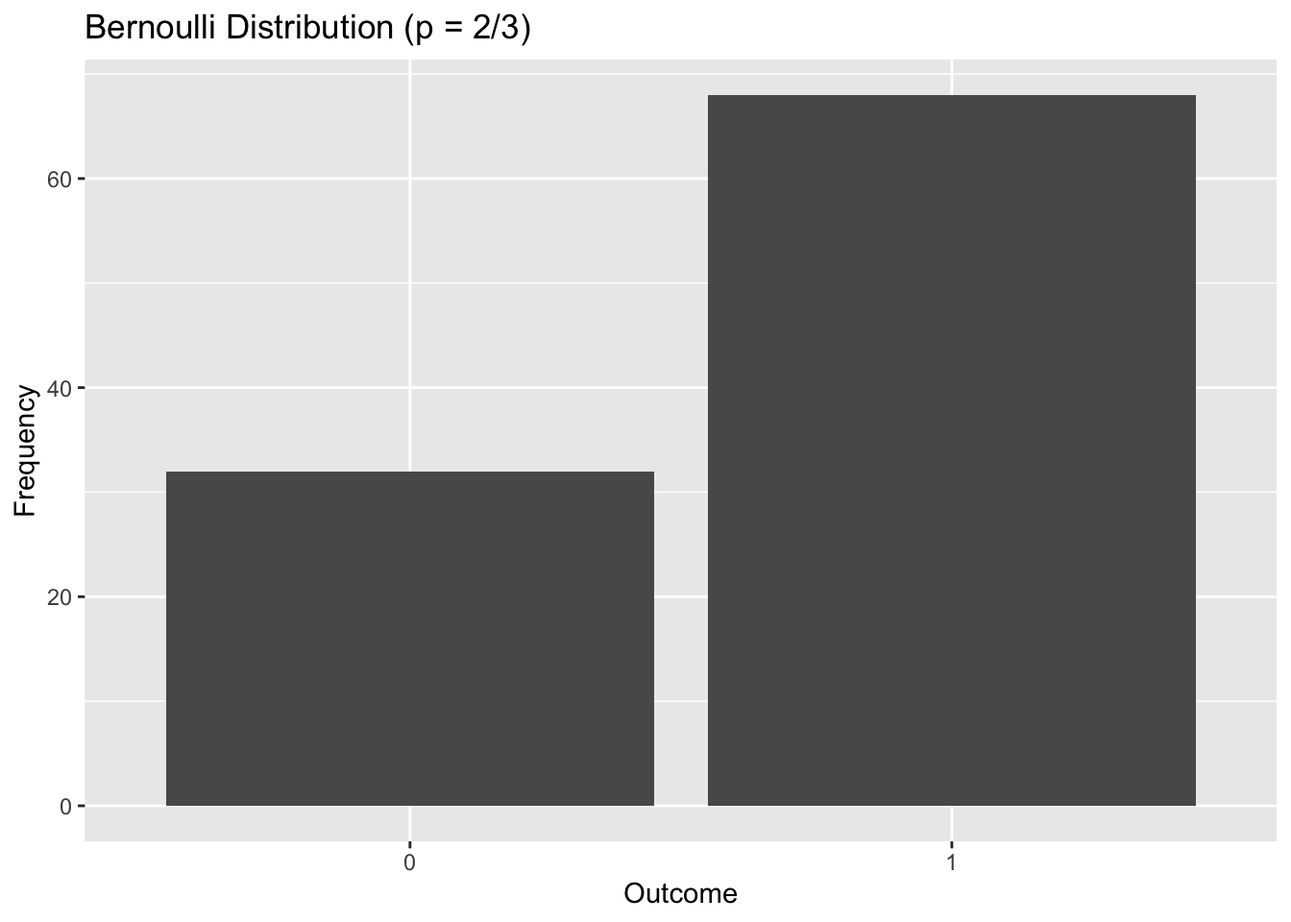
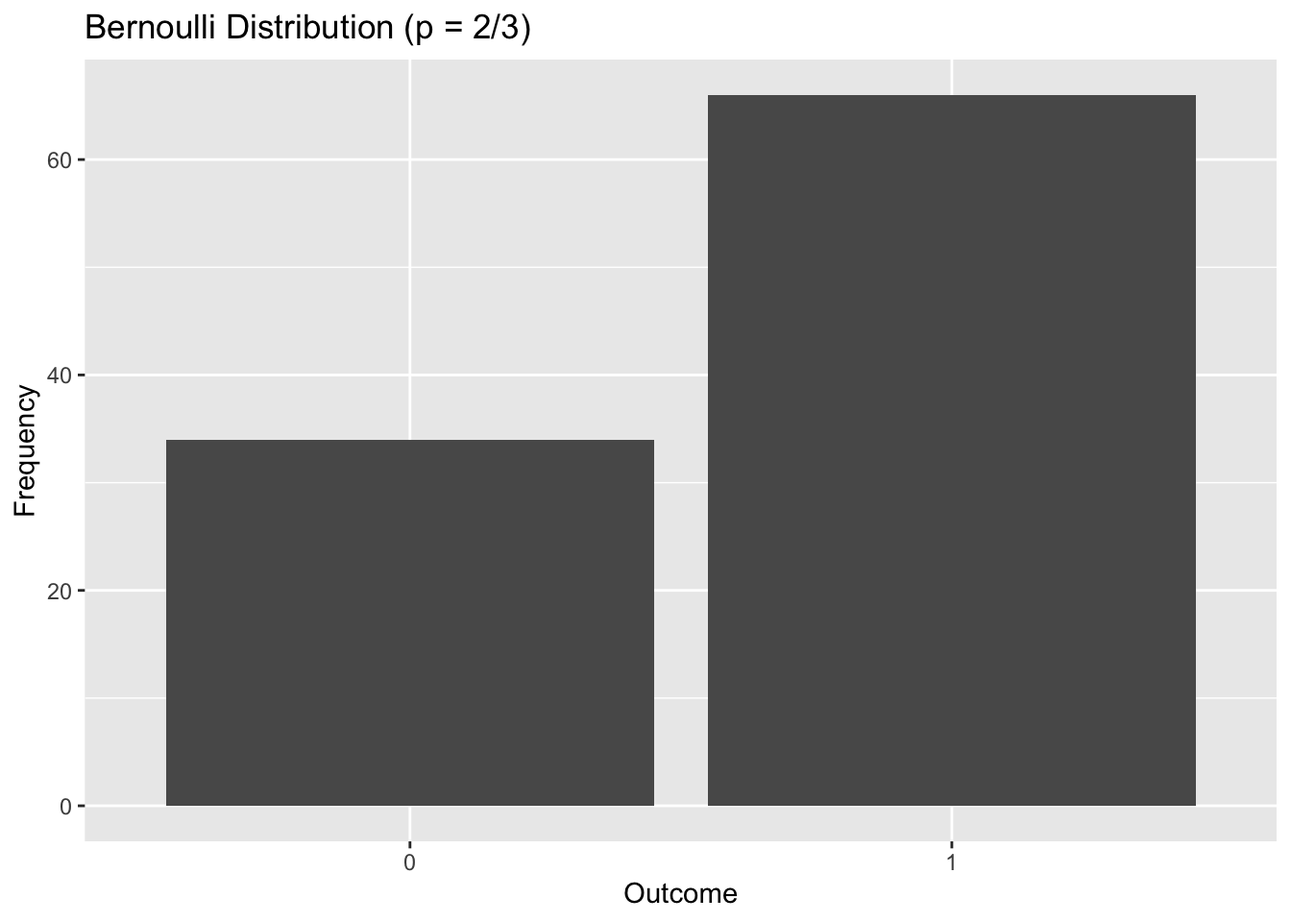
Fixing some errors

diff --git a/Week 5 Exercises/Exercise_05.html b/Week 5 Exercises/Exercise_05.html
@@ -121,51 +121,62 @@ pre > code.sourceCode > span > a:first-child::before { text-decoration: underlin
 <h2 class="anchored" data-anchor-id="section">5.2.1</h2>
 <p>Use <code>dbinom()</code> to verify the results in Equation 5.1.</p>
 <div class="cell">
-<div class="sourceCode cell-code" id="cb4"><pre class="sourceCode r code-with-copy"><code class="sourceCode r"><span id="cb4-1"><a href="#cb4-1" aria-hidden="true" tabindex="-1"></a><span class="fu">dbinom</span>(<span class="dv">1</span>, <span class="at">size =</span> <span class="dv">1</span>, <span class="at">prob =</span> (<span class="dv">2</span><span class="sc">/</span><span class="dv">3</span>))</span></code><button title="Copy to Clipboard" class="code-copy-button"><i class="bi"></i></button></pre></div>
+<div class="sourceCode cell-code" id="cb4"><pre class="sourceCode r code-with-copy"><code class="sourceCode r"><span id="cb4-1"><a href="#cb4-1" aria-hidden="true" tabindex="-1"></a><span class="co"># x=1</span></span>
+<span id="cb4-2"><a href="#cb4-2" aria-hidden="true" tabindex="-1"></a><span class="fu">dbinom</span>(<span class="dv">1</span>, <span class="at">size =</span> <span class="dv">1</span>, <span class="at">prob =</span> (<span class="dv">2</span><span class="sc">/</span><span class="dv">3</span>))</span></code><button title="Copy to Clipboard" class="code-copy-button"><i class="bi"></i></button></pre></div>
 <div class="cell-output cell-output-stdout">
 <pre><code>[1] 0.6666667</code></pre>
 </div>
-<div class="sourceCode cell-code" id="cb6"><pre class="sourceCode r code-with-copy"><code class="sourceCode r"><span id="cb6-1"><a href="#cb6-1" aria-hidden="true" tabindex="-1"></a><span class="fu">dbinom</span>(<span class="dv">0</span>, <span class="at">size =</span> <span class="dv">1</span>, <span class="at">prob =</span> (<span class="dv">2</span><span class="sc">/</span><span class="dv">3</span>))</span></code><button title="Copy to Clipboard" class="code-copy-button"><i class="bi"></i></button></pre></div>
+<div class="sourceCode cell-code" id="cb6"><pre class="sourceCode r code-with-copy"><code class="sourceCode r"><span id="cb6-1"><a href="#cb6-1" aria-hidden="true" tabindex="-1"></a><span class="co"># x=0</span></span>
+<span id="cb6-2"><a href="#cb6-2" aria-hidden="true" tabindex="-1"></a><span class="fu">dbinom</span>(<span class="dv">0</span>, <span class="at">size =</span> <span class="dv">1</span>, <span class="at">prob =</span> (<span class="dv">2</span><span class="sc">/</span><span class="dv">3</span>))</span></code><button title="Copy to Clipboard" class="code-copy-button"><i class="bi"></i></button></pre></div>
 <div class="cell-output cell-output-stdout">
 <pre><code>[1] 0.3333333</code></pre>
+</div>
+<div class="sourceCode cell-code" id="cb8"><pre class="sourceCode r code-with-copy"><code class="sourceCode r"><span id="cb8-1"><a href="#cb8-1" aria-hidden="true" tabindex="-1"></a><span class="fu">dbinom</span>(<span class="dv">1</span>, <span class="at">size =</span> <span class="dv">1</span>, <span class="at">prob =</span> (<span class="dv">2</span><span class="sc">/</span><span class="dv">3</span>))<span class="sc">==</span>(<span class="dv">1</span><span class="sc">-</span><span class="fu">dbinom</span>(<span class="dv">0</span>, <span class="at">size =</span> <span class="dv">1</span>, <span class="at">prob =</span> (<span class="dv">2</span><span class="sc">/</span><span class="dv">3</span>)))</span></code><button title="Copy to Clipboard" class="code-copy-button"><i class="bi"></i></button></pre></div>
+<div class="cell-output cell-output-stdout">
+<pre><code>[1] TRUE</code></pre>
+</div>
+<div class="sourceCode cell-code" id="cb10"><pre class="sourceCode r code-with-copy"><code class="sourceCode r"><span id="cb10-1"><a href="#cb10-1" aria-hidden="true" tabindex="-1"></a><span class="co"># if x=2, should return prob=0</span></span>
+<span id="cb10-2"><a href="#cb10-2" aria-hidden="true" tabindex="-1"></a><span class="fu">dbinom</span>(<span class="dv">2</span>, <span class="at">size =</span> <span class="dv">1</span>, <span class="at">prob =</span> (<span class="dv">2</span><span class="sc">/</span><span class="dv">3</span>))</span></code><button title="Copy to Clipboard" class="code-copy-button"><i class="bi"></i></button></pre></div>
+<div class="cell-output cell-output-stdout">
+<pre><code>[1] 0</code></pre>
 </div>
 </div>
 <p>Use <code>pbinom()</code> to verify the results in Equation 5.2.</p>
 <div class="cell">
-<div class="sourceCode cell-code" id="cb8"><pre class="sourceCode r code-with-copy"><code class="sourceCode r"><span id="cb8-1"><a href="#cb8-1" aria-hidden="true" tabindex="-1"></a><span class="co"># if x&lt;0</span></span>
-<span id="cb8-2"><a href="#cb8-2" aria-hidden="true" tabindex="-1"></a><span class="fu">pbinom</span>(<span class="sc">-</span>.<span class="dv">5</span>, <span class="at">size=</span><span class="dv">1</span>, <span class="at">prob=</span>(<span class="dv">2</span><span class="sc">/</span><span class="dv">3</span>))</span></code><button title="Copy to Clipboard" class="code-copy-button"><i class="bi"></i></button></pre></div>
+<div class="sourceCode cell-code" id="cb12"><pre class="sourceCode r code-with-copy"><code class="sourceCode r"><span id="cb12-1"><a href="#cb12-1" aria-hidden="true" tabindex="-1"></a><span class="co"># if x&lt;0</span></span>
+<span id="cb12-2"><a href="#cb12-2" aria-hidden="true" tabindex="-1"></a><span class="fu">pbinom</span>(<span class="sc">-</span>.<span class="dv">5</span>, <span class="at">size=</span><span class="dv">1</span>, <span class="at">prob=</span>(<span class="dv">2</span><span class="sc">/</span><span class="dv">3</span>))</span></code><button title="Copy to Clipboard" class="code-copy-button"><i class="bi"></i></button></pre></div>
 <div class="cell-output cell-output-stdout">
 <pre><code>[1] 0</code></pre>
 </div>
-<div class="sourceCode cell-code" id="cb10"><pre class="sourceCode r code-with-copy"><code class="sourceCode r"><span id="cb10-1"><a href="#cb10-1" aria-hidden="true" tabindex="-1"></a><span class="co"># if x=0</span></span>
-<span id="cb10-2"><a href="#cb10-2" aria-hidden="true" tabindex="-1"></a><span class="fu">pbinom</span>(<span class="dv">0</span>, <span class="at">size=</span><span class="dv">1</span>, <span class="at">prob=</span>(<span class="dv">2</span><span class="sc">/</span><span class="dv">3</span>))</span></code><button title="Copy to Clipboard" class="code-copy-button"><i class="bi"></i></button></pre></div>
+<div class="sourceCode cell-code" id="cb14"><pre class="sourceCode r code-with-copy"><code class="sourceCode r"><span id="cb14-1"><a href="#cb14-1" aria-hidden="true" tabindex="-1"></a><span class="co"># if x=0</span></span>
+<span id="cb14-2"><a href="#cb14-2" aria-hidden="true" tabindex="-1"></a><span class="fu">pbinom</span>(<span class="dv">0</span>, <span class="at">size=</span><span class="dv">1</span>, <span class="at">prob=</span>(<span class="dv">2</span><span class="sc">/</span><span class="dv">3</span>))</span></code><button title="Copy to Clipboard" class="code-copy-button"><i class="bi"></i></button></pre></div>
 <div class="cell-output cell-output-stdout">
 <pre><code>[1] 0.3333333</code></pre>
 </div>
-<div class="sourceCode cell-code" id="cb12"><pre class="sourceCode r code-with-copy"><code class="sourceCode r"><span id="cb12-1"><a href="#cb12-1" aria-hidden="true" tabindex="-1"></a><span class="co"># if x=1</span></span>
-<span id="cb12-2"><a href="#cb12-2" aria-hidden="true" tabindex="-1"></a><span class="fu">pbinom</span>(<span class="dv">1</span>, <span class="at">size=</span><span class="dv">1</span>, <span class="at">prob=</span>(<span class="dv">2</span><span class="sc">/</span><span class="dv">3</span>))</span></code><button title="Copy to Clipboard" class="code-copy-button"><i class="bi"></i></button></pre></div>
+<div class="sourceCode cell-code" id="cb16"><pre class="sourceCode r code-with-copy"><code class="sourceCode r"><span id="cb16-1"><a href="#cb16-1" aria-hidden="true" tabindex="-1"></a><span class="co"># if x=1</span></span>
+<span id="cb16-2"><a href="#cb16-2" aria-hidden="true" tabindex="-1"></a><span class="fu">pbinom</span>(<span class="dv">1</span>, <span class="at">size=</span><span class="dv">1</span>, <span class="at">prob=</span>(<span class="dv">2</span><span class="sc">/</span><span class="dv">3</span>))</span></code><button title="Copy to Clipboard" class="code-copy-button"><i class="bi"></i></button></pre></div>
 <div class="cell-output cell-output-stdout">
 <pre><code>[1] 1</code></pre>
 </div>
-<div class="sourceCode cell-code" id="cb14"><pre class="sourceCode r code-with-copy"><code class="sourceCode r"><span id="cb14-1"><a href="#cb14-1" aria-hidden="true" tabindex="-1"></a><span class="co"># if x&gt;1</span></span>
-<span id="cb14-2"><a href="#cb14-2" aria-hidden="true" tabindex="-1"></a><span class="fu">pbinom</span>(<span class="fl">1.5</span>, <span class="at">size=</span><span class="dv">1</span>, <span class="at">prob=</span>(<span class="dv">2</span><span class="sc">/</span><span class="dv">3</span>))</span></code><button title="Copy to Clipboard" class="code-copy-button"><i class="bi"></i></button></pre></div>
+<div class="sourceCode cell-code" id="cb18"><pre class="sourceCode r code-with-copy"><code class="sourceCode r"><span id="cb18-1"><a href="#cb18-1" aria-hidden="true" tabindex="-1"></a><span class="co"># if x&gt;1</span></span>
+<span id="cb18-2"><a href="#cb18-2" aria-hidden="true" tabindex="-1"></a><span class="fu">pbinom</span>(<span class="fl">1.5</span>, <span class="at">size=</span><span class="dv">1</span>, <span class="at">prob=</span>(<span class="dv">2</span><span class="sc">/</span><span class="dv">3</span>))</span></code><button title="Copy to Clipboard" class="code-copy-button"><i class="bi"></i></button></pre></div>
 <div class="cell-output cell-output-stdout">
 <pre><code>[1] 1</code></pre>
 </div>
 </div>
 <p>Use <code>rbinom()</code> to generate 100 samples from the Bernouilli distribution with prob = 2/3. Plot the results in ggplot using geom_bar.</p>
 <div class="cell">
-<div class="sourceCode cell-code" id="cb16"><pre class="sourceCode r code-with-copy"><code class="sourceCode r"><span id="cb16-1"><a href="#cb16-1" aria-hidden="true" tabindex="-1"></a>sims <span class="ot">&lt;-</span> <span class="fu">rbinom</span>(<span class="dv">100</span>, <span class="at">size =</span> <span class="dv">1</span>, <span class="at">prob =</span> <span class="dv">2</span><span class="sc">/</span><span class="dv">3</span>)</span>
-<span id="cb16-2"><a href="#cb16-2" aria-hidden="true" tabindex="-1"></a></span>
-<span id="cb16-3"><a href="#cb16-3" aria-hidden="true" tabindex="-1"></a><span class="co"># Create a data frame</span></span>
-<span id="cb16-4"><a href="#cb16-4" aria-hidden="true" tabindex="-1"></a>data <span class="ot">&lt;-</span> <span class="fu">data.frame</span>(sims)</span>
-<span id="cb16-5"><a href="#cb16-5" aria-hidden="true" tabindex="-1"></a></span>
-<span id="cb16-6"><a href="#cb16-6" aria-hidden="true" tabindex="-1"></a><span class="co"># Plot the results using ggplot2</span></span>
-<span id="cb16-7"><a href="#cb16-7" aria-hidden="true" tabindex="-1"></a><span class="fu">ggplot</span>(data, <span class="fu">aes</span>(<span class="at">x =</span> <span class="fu">factor</span>(sims))) <span class="sc">+</span></span>
-<span id="cb16-8"><a href="#cb16-8" aria-hidden="true" tabindex="-1"></a>  <span class="fu">geom_bar</span>() <span class="sc">+</span></span>
-<span id="cb16-9"><a href="#cb16-9" aria-hidden="true" tabindex="-1"></a>  <span class="fu">labs</span>(<span class="at">title =</span> <span class="st">"Bernoulli Distribution (p = 2/3)"</span>,</span>
-<span id="cb16-10"><a href="#cb16-10" aria-hidden="true" tabindex="-1"></a>       <span class="at">x =</span> <span class="st">"Outcome"</span>,</span>
-<span id="cb16-11"><a href="#cb16-11" aria-hidden="true" tabindex="-1"></a>       <span class="at">y =</span> <span class="st">"Frequency"</span>)</span></code><button title="Copy to Clipboard" class="code-copy-button"><i class="bi"></i></button></pre></div>
+<div class="sourceCode cell-code" id="cb20"><pre class="sourceCode r code-with-copy"><code class="sourceCode r"><span id="cb20-1"><a href="#cb20-1" aria-hidden="true" tabindex="-1"></a>sims <span class="ot">&lt;-</span> <span class="fu">rbinom</span>(<span class="dv">100</span>, <span class="at">size =</span> <span class="dv">1</span>, <span class="at">prob =</span> <span class="dv">2</span><span class="sc">/</span><span class="dv">3</span>)</span>
+<span id="cb20-2"><a href="#cb20-2" aria-hidden="true" tabindex="-1"></a></span>
+<span id="cb20-3"><a href="#cb20-3" aria-hidden="true" tabindex="-1"></a><span class="co"># Create a data frame</span></span>
+<span id="cb20-4"><a href="#cb20-4" aria-hidden="true" tabindex="-1"></a>data <span class="ot">&lt;-</span> <span class="fu">data.frame</span>(sims)</span>
+<span id="cb20-5"><a href="#cb20-5" aria-hidden="true" tabindex="-1"></a></span>
+<span id="cb20-6"><a href="#cb20-6" aria-hidden="true" tabindex="-1"></a><span class="co"># Plot the results using ggplot2</span></span>
+<span id="cb20-7"><a href="#cb20-7" aria-hidden="true" tabindex="-1"></a><span class="fu">ggplot</span>(data, <span class="fu">aes</span>(<span class="at">x =</span> <span class="fu">factor</span>(sims))) <span class="sc">+</span></span>
+<span id="cb20-8"><a href="#cb20-8" aria-hidden="true" tabindex="-1"></a>  <span class="fu">geom_bar</span>() <span class="sc">+</span></span>
+<span id="cb20-9"><a href="#cb20-9" aria-hidden="true" tabindex="-1"></a>  <span class="fu">labs</span>(<span class="at">title =</span> <span class="st">"Bernoulli Distribution (p = 2/3)"</span>,</span>
+<span id="cb20-10"><a href="#cb20-10" aria-hidden="true" tabindex="-1"></a>       <span class="at">x =</span> <span class="st">"Outcome"</span>,</span>
+<span id="cb20-11"><a href="#cb20-11" aria-hidden="true" tabindex="-1"></a>       <span class="at">y =</span> <span class="st">"Frequency"</span>)</span></code><button title="Copy to Clipboard" class="code-copy-button"><i class="bi"></i></button></pre></div>
 <div class="cell-output-display">
 <p><img src="Exercise_05_files/figure-html/unnamed-chunk-4-1.png" class="img-fluid" width="672"></p>
 </div>
@@ -175,15 +186,15 @@ pre > code.sourceCode > span > a:first-child::before { text-decoration: underlin
 <h2 class="anchored" data-anchor-id="section-1">5.3.1</h2>
 <p>Draw the sample space Ω for this “experiment.”</p>
 <div class="cell">
-<div class="sourceCode cell-code" id="cb17"><pre class="sourceCode r code-with-copy"><code class="sourceCode r"><span id="cb17-1"><a href="#cb17-1" aria-hidden="true" tabindex="-1"></a>outcomes <span class="ot">&lt;-</span> <span class="fu">c</span>(<span class="st">"H"</span>, <span class="st">"T"</span>)</span>
-<span id="cb17-2"><a href="#cb17-2" aria-hidden="true" tabindex="-1"></a></span>
-<span id="cb17-3"><a href="#cb17-3" aria-hidden="true" tabindex="-1"></a><span class="co"># Generate all possible combinations for 4 coin flips</span></span>
-<span id="cb17-4"><a href="#cb17-4" aria-hidden="true" tabindex="-1"></a>sample_space <span class="ot">&lt;-</span> <span class="fu">expand.grid</span>(outcomes, outcomes, outcomes, outcomes)</span>
-<span id="cb17-5"><a href="#cb17-5" aria-hidden="true" tabindex="-1"></a></span>
-<span id="cb17-6"><a href="#cb17-6" aria-hidden="true" tabindex="-1"></a><span class="co"># Rename the columns for clarity</span></span>
-<span id="cb17-7"><a href="#cb17-7" aria-hidden="true" tabindex="-1"></a><span class="fu">colnames</span>(sample_space) <span class="ot">&lt;-</span> <span class="fu">c</span>(<span class="st">"Flip1"</span>, <span class="st">"Flip2"</span>, <span class="st">"Flip3"</span>, <span class="st">"Flip4"</span>)</span>
-<span id="cb17-8"><a href="#cb17-8" aria-hidden="true" tabindex="-1"></a></span>
-<span id="cb17-9"><a href="#cb17-9" aria-hidden="true" tabindex="-1"></a>sample_space</span></code><button title="Copy to Clipboard" class="code-copy-button"><i class="bi"></i></button></pre></div>
+<div class="sourceCode cell-code" id="cb21"><pre class="sourceCode r code-with-copy"><code class="sourceCode r"><span id="cb21-1"><a href="#cb21-1" aria-hidden="true" tabindex="-1"></a>outcomes <span class="ot">&lt;-</span> <span class="fu">c</span>(<span class="st">"H"</span>, <span class="st">"T"</span>)</span>
+<span id="cb21-2"><a href="#cb21-2" aria-hidden="true" tabindex="-1"></a></span>
+<span id="cb21-3"><a href="#cb21-3" aria-hidden="true" tabindex="-1"></a><span class="co"># Generate all possible combinations for 4 coin flips</span></span>
+<span id="cb21-4"><a href="#cb21-4" aria-hidden="true" tabindex="-1"></a>sample_space <span class="ot">&lt;-</span> <span class="fu">expand.grid</span>(outcomes, outcomes, outcomes, outcomes)</span>
+<span id="cb21-5"><a href="#cb21-5" aria-hidden="true" tabindex="-1"></a></span>
+<span id="cb21-6"><a href="#cb21-6" aria-hidden="true" tabindex="-1"></a><span class="co"># Rename the columns for clarity</span></span>
+<span id="cb21-7"><a href="#cb21-7" aria-hidden="true" tabindex="-1"></a><span class="fu">colnames</span>(sample_space) <span class="ot">&lt;-</span> <span class="fu">c</span>(<span class="st">"Flip1"</span>, <span class="st">"Flip2"</span>, <span class="st">"Flip3"</span>, <span class="st">"Flip4"</span>)</span>
+<span id="cb21-8"><a href="#cb21-8" aria-hidden="true" tabindex="-1"></a></span>
+<span id="cb21-9"><a href="#cb21-9" aria-hidden="true" tabindex="-1"></a>sample_space</span></code><button title="Copy to Clipboard" class="code-copy-button"><i class="bi"></i></button></pre></div>
 <div class="cell-output cell-output-stdout">
 <pre><code>   Flip1 Flip2 Flip3 Flip4
 1      H     H     H     H
@@ -209,28 +220,28 @@ pre > code.sourceCode > span > a:first-child::before { text-decoration: underlin
 <h2 class="anchored" data-anchor-id="section-2">5.3.2</h2>
 <p>How many possible ways are there to get X=0, X=1, X=2, X=3, and X=4?</p>
 <div class="cell">
-<div class="sourceCode cell-code" id="cb19"><pre class="sourceCode r code-with-copy"><code class="sourceCode r"><span id="cb19-1"><a href="#cb19-1" aria-hidden="true" tabindex="-1"></a><span class="co"># Number ways to get X=0</span></span>
-<span id="cb19-2"><a href="#cb19-2" aria-hidden="true" tabindex="-1"></a><span class="dv">16</span><span class="sc">*</span><span class="fu">dbinom</span>(<span class="dv">0</span>,<span class="dv">4</span>,<span class="fl">0.5</span>)</span></code><button title="Copy to Clipboard" class="code-copy-button"><i class="bi"></i></button></pre></div>
+<div class="sourceCode cell-code" id="cb23"><pre class="sourceCode r code-with-copy"><code class="sourceCode r"><span id="cb23-1"><a href="#cb23-1" aria-hidden="true" tabindex="-1"></a><span class="co"># Number ways to get X=0</span></span>
+<span id="cb23-2"><a href="#cb23-2" aria-hidden="true" tabindex="-1"></a><span class="dv">16</span><span class="sc">*</span><span class="fu">dbinom</span>(<span class="dv">0</span>,<span class="dv">4</span>,<span class="fl">0.5</span>)</span></code><button title="Copy to Clipboard" class="code-copy-button"><i class="bi"></i></button></pre></div>
 <div class="cell-output cell-output-stdout">
 <pre><code>[1] 1</code></pre>
 </div>
-<div class="sourceCode cell-code" id="cb21"><pre class="sourceCode r code-with-copy"><code class="sourceCode r"><span id="cb21-1"><a href="#cb21-1" aria-hidden="true" tabindex="-1"></a><span class="co"># Number ways to get X=1</span></span>
-<span id="cb21-2"><a href="#cb21-2" aria-hidden="true" tabindex="-1"></a><span class="dv">16</span><span class="sc">*</span><span class="fu">dbinom</span>(<span class="dv">1</span>,<span class="dv">4</span>,<span class="fl">0.5</span>)</span></code><button title="Copy to Clipboard" class="code-copy-button"><i class="bi"></i></button></pre></div>
+<div class="sourceCode cell-code" id="cb25"><pre class="sourceCode r code-with-copy"><code class="sourceCode r"><span id="cb25-1"><a href="#cb25-1" aria-hidden="true" tabindex="-1"></a><span class="co"># Number ways to get X=1</span></span>
+<span id="cb25-2"><a href="#cb25-2" aria-hidden="true" tabindex="-1"></a><span class="dv">16</span><span class="sc">*</span><span class="fu">dbinom</span>(<span class="dv">1</span>,<span class="dv">4</span>,<span class="fl">0.5</span>)</span></code><button title="Copy to Clipboard" class="code-copy-button"><i class="bi"></i></button></pre></div>
 <div class="cell-output cell-output-stdout">
 <pre><code>[1] 4</code></pre>
 </div>
-<div class="sourceCode cell-code" id="cb23"><pre class="sourceCode r code-with-copy"><code class="sourceCode r"><span id="cb23-1"><a href="#cb23-1" aria-hidden="true" tabindex="-1"></a><span class="co"># Number ways to get X=2</span></span>
-<span id="cb23-2"><a href="#cb23-2" aria-hidden="true" tabindex="-1"></a><span class="dv">16</span><span class="sc">*</span><span class="fu">dbinom</span>(<span class="dv">2</span>,<span class="dv">4</span>,<span class="fl">0.5</span>)</span></code><button title="Copy to Clipboard" class="code-copy-button"><i class="bi"></i></button></pre></div>
+<div class="sourceCode cell-code" id="cb27"><pre class="sourceCode r code-with-copy"><code class="sourceCode r"><span id="cb27-1"><a href="#cb27-1" aria-hidden="true" tabindex="-1"></a><span class="co"># Number ways to get X=2</span></span>
+<span id="cb27-2"><a href="#cb27-2" aria-hidden="true" tabindex="-1"></a><span class="dv">16</span><span class="sc">*</span><span class="fu">dbinom</span>(<span class="dv">2</span>,<span class="dv">4</span>,<span class="fl">0.5</span>)</span></code><button title="Copy to Clipboard" class="code-copy-button"><i class="bi"></i></button></pre></div>
 <div class="cell-output cell-output-stdout">
 <pre><code>[1] 6</code></pre>
 </div>
-<div class="sourceCode cell-code" id="cb25"><pre class="sourceCode r code-with-copy"><code class="sourceCode r"><span id="cb25-1"><a href="#cb25-1" aria-hidden="true" tabindex="-1"></a><span class="co"># Number ways to get X=3</span></span>
-<span id="cb25-2"><a href="#cb25-2" aria-hidden="true" tabindex="-1"></a><span class="dv">16</span><span class="sc">*</span><span class="fu">dbinom</span>(<span class="dv">3</span>,<span class="dv">4</span>,<span class="fl">0.5</span>)</span></code><button title="Copy to Clipboard" class="code-copy-button"><i class="bi"></i></button></pre></div>
+<div class="sourceCode cell-code" id="cb29"><pre class="sourceCode r code-with-copy"><code class="sourceCode r"><span id="cb29-1"><a href="#cb29-1" aria-hidden="true" tabindex="-1"></a><span class="co"># Number ways to get X=3</span></span>
+<span id="cb29-2"><a href="#cb29-2" aria-hidden="true" tabindex="-1"></a><span class="dv">16</span><span class="sc">*</span><span class="fu">dbinom</span>(<span class="dv">3</span>,<span class="dv">4</span>,<span class="fl">0.5</span>)</span></code><button title="Copy to Clipboard" class="code-copy-button"><i class="bi"></i></button></pre></div>
 <div class="cell-output cell-output-stdout">
 <pre><code>[1] 4</code></pre>
 </div>
-<div class="sourceCode cell-code" id="cb27"><pre class="sourceCode r code-with-copy"><code class="sourceCode r"><span id="cb27-1"><a href="#cb27-1" aria-hidden="true" tabindex="-1"></a><span class="co"># Number ways to get X=4</span></span>
-<span id="cb27-2"><a href="#cb27-2" aria-hidden="true" tabindex="-1"></a><span class="dv">16</span><span class="sc">*</span><span class="fu">dbinom</span>(<span class="dv">4</span>,<span class="dv">4</span>,<span class="fl">0.5</span>)</span></code><button title="Copy to Clipboard" class="code-copy-button"><i class="bi"></i></button></pre></div>
+<div class="sourceCode cell-code" id="cb31"><pre class="sourceCode r code-with-copy"><code class="sourceCode r"><span id="cb31-1"><a href="#cb31-1" aria-hidden="true" tabindex="-1"></a><span class="co"># Number ways to get X=4</span></span>
+<span id="cb31-2"><a href="#cb31-2" aria-hidden="true" tabindex="-1"></a><span class="dv">16</span><span class="sc">*</span><span class="fu">dbinom</span>(<span class="dv">4</span>,<span class="dv">4</span>,<span class="fl">0.5</span>)</span></code><button title="Copy to Clipboard" class="code-copy-button"><i class="bi"></i></button></pre></div>
 <div class="cell-output cell-output-stdout">
 <pre><code>[1] 1</code></pre>
 </div>
@@ -238,22 +249,19 @@ pre > code.sourceCode > span > a:first-child::before { text-decoration: underlin
 <p>What is the probability that X=2? <strong>The probability is 37.5%</strong></p>
 <p>Verify this by using the correct R function to calculate the probability that X=2?</p>
 <div class="cell">
-<div class="sourceCode cell-code" id="cb29"><pre class="sourceCode r code-with-copy"><code class="sourceCode r"><span id="cb29-1"><a href="#cb29-1" aria-hidden="true" tabindex="-1"></a><span class="fu">dbinom</span>(<span class="dv">2</span>,<span class="dv">4</span>,<span class="fl">0.5</span>)</span></code><button title="Copy to Clipboard" class="code-copy-button"><i class="bi"></i></button></pre></div>
+<div class="sourceCode cell-code" id="cb33"><pre class="sourceCode r code-with-copy"><code class="sourceCode r"><span id="cb33-1"><a href="#cb33-1" aria-hidden="true" tabindex="-1"></a><span class="fu">dbinom</span>(<span class="dv">2</span>,<span class="dv">4</span>,<span class="fl">0.5</span>)</span></code><button title="Copy to Clipboard" class="code-copy-button"><i class="bi"></i></button></pre></div>
 <div class="cell-output cell-output-stdout">
 <pre><code>[1] 0.375</code></pre>
 </div>
 </div>
 <p>Use the correct R function to calculate the probability that X≤1?</p>
 <div class="cell">
-<div class="sourceCode cell-code" id="cb31"><pre class="sourceCode r code-with-copy"><code class="sourceCode r"><span id="cb31-1"><a href="#cb31-1" aria-hidden="true" tabindex="-1"></a>prob_0<span class="ot">&lt;-</span><span class="fu">dbinom</span>(<span class="dv">0</span>,<span class="dv">1</span>,<span class="dv">4</span>,<span class="fl">0.5</span>)</span></code><button title="Copy to Clipboard" class="code-copy-button"><i class="bi"></i></button></pre></div>
-<div class="cell-output cell-output-stderr">
-<pre><code>Warning in dbinom(0, 1, 4, 0.5): NaNs produced</code></pre>
-</div>
-<div class="sourceCode cell-code" id="cb33"><pre class="sourceCode r code-with-copy"><code class="sourceCode r"><span id="cb33-1"><a href="#cb33-1" aria-hidden="true" tabindex="-1"></a>prob_1<span class="ot">&lt;-</span><span class="fu">dbinom</span>(<span class="dv">1</span>,<span class="dv">4</span>,<span class="fl">0.5</span>)</span>
-<span id="cb33-2"><a href="#cb33-2" aria-hidden="true" tabindex="-1"></a></span>
-<span id="cb33-3"><a href="#cb33-3" aria-hidden="true" tabindex="-1"></a>prob_0 <span class="sc">+</span> prob_1</span></code><button title="Copy to Clipboard" class="code-copy-button"><i class="bi"></i></button></pre></div>
+<div class="sourceCode cell-code" id="cb35"><pre class="sourceCode r code-with-copy"><code class="sourceCode r"><span id="cb35-1"><a href="#cb35-1" aria-hidden="true" tabindex="-1"></a>prob_0<span class="ot">&lt;-</span><span class="fu">dbinom</span>(<span class="dv">0</span>,<span class="dv">4</span>,<span class="fl">0.5</span>)</span>
+<span id="cb35-2"><a href="#cb35-2" aria-hidden="true" tabindex="-1"></a>prob_1<span class="ot">&lt;-</span><span class="fu">dbinom</span>(<span class="dv">1</span>,<span class="dv">4</span>,<span class="fl">0.5</span>)</span>
+<span id="cb35-3"><a href="#cb35-3" aria-hidden="true" tabindex="-1"></a></span>
+<span id="cb35-4"><a href="#cb35-4" aria-hidden="true" tabindex="-1"></a>prob_0 <span class="sc">+</span> prob_1</span></code><button title="Copy to Clipboard" class="code-copy-button"><i class="bi"></i></button></pre></div>
 <div class="cell-output cell-output-stdout">
-<pre><code>[1] NaN</code></pre>
+<pre><code>[1] 0.3125</code></pre>
 </div>
 </div>
 </section>
@@ -261,27 +269,27 @@ pre > code.sourceCode > span > a:first-child::before { text-decoration: underlin
 <h1>5.3.3</h1>
 <p>Use <code>rbinom()</code> to generate 1000 samples from the Binomial distribution with size = 5 and prob = 2/3. Plot the results in ggplot using geom_bar.</p>
 <div class="cell">
-<div class="sourceCode cell-code" id="cb35"><pre class="sourceCode r code-with-copy"><code class="sourceCode r"><span id="cb35-1"><a href="#cb35-1" aria-hidden="true" tabindex="-1"></a>samples <span class="ot">&lt;-</span> <span class="fu">rbinom</span>(<span class="dv">1000</span>, <span class="at">size =</span> <span class="dv">5</span>, <span class="at">prob =</span> <span class="dv">2</span><span class="sc">/</span><span class="dv">3</span>)</span>
-<span id="cb35-2"><a href="#cb35-2" aria-hidden="true" tabindex="-1"></a></span>
-<span id="cb35-3"><a href="#cb35-3" aria-hidden="true" tabindex="-1"></a><span class="co"># Create a data frame</span></span>
-<span id="cb35-4"><a href="#cb35-4" aria-hidden="true" tabindex="-1"></a>data <span class="ot">&lt;-</span> <span class="fu">data.frame</span>(samples)</span>
-<span id="cb35-5"><a href="#cb35-5" aria-hidden="true" tabindex="-1"></a></span>
-<span id="cb35-6"><a href="#cb35-6" aria-hidden="true" tabindex="-1"></a><span class="co"># Plot the results using ggplot2</span></span>
-<span id="cb35-7"><a href="#cb35-7" aria-hidden="true" tabindex="-1"></a><span class="fu">ggplot</span>(data, <span class="fu">aes</span>(<span class="at">x =</span> <span class="fu">factor</span>(samples))) <span class="sc">+</span></span>
-<span id="cb35-8"><a href="#cb35-8" aria-hidden="true" tabindex="-1"></a>  <span class="fu">geom_bar</span>() <span class="sc">+</span></span>
-<span id="cb35-9"><a href="#cb35-9" aria-hidden="true" tabindex="-1"></a>  <span class="fu">labs</span>(<span class="at">title =</span> <span class="st">"Bernoulli Distribution (p = 2/3)"</span>,</span>
-<span id="cb35-10"><a href="#cb35-10" aria-hidden="true" tabindex="-1"></a>       <span class="at">x =</span> <span class="st">"Outcome"</span>,</span>
-<span id="cb35-11"><a href="#cb35-11" aria-hidden="true" tabindex="-1"></a>       <span class="at">y =</span> <span class="st">"Frequency"</span>)</span></code><button title="Copy to Clipboard" class="code-copy-button"><i class="bi"></i></button></pre></div>
+<div class="sourceCode cell-code" id="cb37"><pre class="sourceCode r code-with-copy"><code class="sourceCode r"><span id="cb37-1"><a href="#cb37-1" aria-hidden="true" tabindex="-1"></a>samples <span class="ot">&lt;-</span> <span class="fu">rbinom</span>(<span class="dv">1000</span>, <span class="at">size =</span> <span class="dv">5</span>, <span class="at">prob =</span> <span class="dv">2</span><span class="sc">/</span><span class="dv">3</span>)</span>
+<span id="cb37-2"><a href="#cb37-2" aria-hidden="true" tabindex="-1"></a></span>
+<span id="cb37-3"><a href="#cb37-3" aria-hidden="true" tabindex="-1"></a><span class="co"># Create a data frame</span></span>
+<span id="cb37-4"><a href="#cb37-4" aria-hidden="true" tabindex="-1"></a>data <span class="ot">&lt;-</span> <span class="fu">data.frame</span>(samples)</span>
+<span id="cb37-5"><a href="#cb37-5" aria-hidden="true" tabindex="-1"></a></span>
+<span id="cb37-6"><a href="#cb37-6" aria-hidden="true" tabindex="-1"></a><span class="co"># Plot the results using ggplot2</span></span>
+<span id="cb37-7"><a href="#cb37-7" aria-hidden="true" tabindex="-1"></a><span class="fu">ggplot</span>(data, <span class="fu">aes</span>(<span class="at">x =</span> <span class="fu">factor</span>(samples))) <span class="sc">+</span></span>
+<span id="cb37-8"><a href="#cb37-8" aria-hidden="true" tabindex="-1"></a>  <span class="fu">geom_bar</span>() <span class="sc">+</span></span>
+<span id="cb37-9"><a href="#cb37-9" aria-hidden="true" tabindex="-1"></a>  <span class="fu">labs</span>(<span class="at">title =</span> <span class="st">"Bernoulli Distribution (p = 2/3)"</span>,</span>
+<span id="cb37-10"><a href="#cb37-10" aria-hidden="true" tabindex="-1"></a>       <span class="at">x =</span> <span class="st">"Outcome"</span>,</span>
+<span id="cb37-11"><a href="#cb37-11" aria-hidden="true" tabindex="-1"></a>       <span class="at">y =</span> <span class="st">"Frequency"</span>)</span></code><button title="Copy to Clipboard" class="code-copy-button"><i class="bi"></i></button></pre></div>
 <div class="cell-output-display">
 <p><img src="Exercise_05_files/figure-html/unnamed-chunk-9-1.png" class="img-fluid" width="672"></p>
 </div>
 </div>
 <p>Estimate the probability that X is an even number using the mean() function on those 1000 values.</p>
 <div class="cell">
-<div class="sourceCode cell-code" id="cb36"><pre class="sourceCode r code-with-copy"><code class="sourceCode r"><span id="cb36-1"><a href="#cb36-1" aria-hidden="true" tabindex="-1"></a>prob_even <span class="ot">&lt;-</span> <span class="fu">mean</span>(samples <span class="sc">%%</span> <span class="dv">2</span> <span class="sc">==</span> <span class="dv">0</span>)</span>
-<span id="cb36-2"><a href="#cb36-2" aria-hidden="true" tabindex="-1"></a>prob_even</span></code><button title="Copy to Clipboard" class="code-copy-button"><i class="bi"></i></button></pre></div>
+<div class="sourceCode cell-code" id="cb38"><pre class="sourceCode r code-with-copy"><code class="sourceCode r"><span id="cb38-1"><a href="#cb38-1" aria-hidden="true" tabindex="-1"></a>prob_even <span class="ot">&lt;-</span> <span class="fu">mean</span>(samples <span class="sc">%%</span> <span class="dv">2</span> <span class="sc">==</span> <span class="dv">0</span>)</span>
+<span id="cb38-2"><a href="#cb38-2" aria-hidden="true" tabindex="-1"></a>prob_even</span></code><button title="Copy to Clipboard" class="code-copy-button"><i class="bi"></i></button></pre></div>
 <div class="cell-output cell-output-stdout">
-<pre><code>[1] 0.508</code></pre>
+<pre><code>[1] 0.487</code></pre>
 </div>
 </div>
 </section>
@@ -291,7 +299,7 @@ pre > code.sourceCode > span > a:first-child::before { text-decoration: underlin
 <p>What is the probability that X = 2 when p=1/3 and n=4? <strong>Probability is 29.6%</strong></p>
 <p>Verify this by using the correct R function to calculate the probability that X=2.</p>
 <div class="cell">
-<div class="sourceCode cell-code" id="cb38"><pre class="sourceCode r code-with-copy"><code class="sourceCode r"><span id="cb38-1"><a href="#cb38-1" aria-hidden="true" tabindex="-1"></a><span class="fu">dbinom</span>(<span class="dv">2</span>,<span class="dv">4</span>,<span class="dv">1</span><span class="sc">/</span><span class="dv">3</span>)</span></code><button title="Copy to Clipboard" class="code-copy-button"><i class="bi"></i></button></pre></div>
+<div class="sourceCode cell-code" id="cb40"><pre class="sourceCode r code-with-copy"><code class="sourceCode r"><span id="cb40-1"><a href="#cb40-1" aria-hidden="true" tabindex="-1"></a><span class="fu">dbinom</span>(<span class="dv">2</span>,<span class="dv">4</span>,<span class="dv">1</span><span class="sc">/</span><span class="dv">3</span>)</span></code><button title="Copy to Clipboard" class="code-copy-button"><i class="bi"></i></button></pre></div>
 <div class="cell-output cell-output-stdout">
 <pre><code>[1] 0.2962963</code></pre>
 </div>
@@ -302,11 +310,11 @@ pre > code.sourceCode > span > a:first-child::before { text-decoration: underlin
 <p>Suppose that p = 2/3 and n = 15</p>
 <p>Use <code>dbinom()</code> to verify the results in Equation 5.3</p>
 <div class="cell">
-<div class="sourceCode cell-code" id="cb40"><pre class="sourceCode r code-with-copy"><code class="sourceCode r"><span id="cb40-1"><a href="#cb40-1" aria-hidden="true" tabindex="-1"></a>probs<span class="ot">&lt;-</span><span class="fu">dbinom</span>(<span class="at">x=</span><span class="fu">seq</span>(<span class="dv">0</span>,<span class="dv">15</span>), <span class="at">size=</span><span class="dv">15</span>,<span class="at">prob=</span><span class="dv">2</span><span class="sc">/</span><span class="dv">3</span>)</span>
-<span id="cb40-2"><a href="#cb40-2" aria-hidden="true" tabindex="-1"></a></span>
-<span id="cb40-3"><a href="#cb40-3" aria-hidden="true" tabindex="-1"></a><span class="cf">for</span> (i <span class="cf">in</span> <span class="fu">seq</span>(<span class="dv">0</span>,<span class="dv">15</span>)) {</span>
-<span id="cb40-4"><a href="#cb40-4" aria-hidden="true" tabindex="-1"></a>  <span class="fu">cat</span>(<span class="st">"P(X ="</span>, i, <span class="st">") ="</span>, probs[i <span class="sc">+</span> <span class="dv">1</span>], <span class="st">"</span><span class="sc">\n</span><span class="st">"</span>)</span>
-<span id="cb40-5"><a href="#cb40-5" aria-hidden="true" tabindex="-1"></a>}</span></code><button title="Copy to Clipboard" class="code-copy-button"><i class="bi"></i></button></pre></div>
+<div class="sourceCode cell-code" id="cb42"><pre class="sourceCode r code-with-copy"><code class="sourceCode r"><span id="cb42-1"><a href="#cb42-1" aria-hidden="true" tabindex="-1"></a>probs<span class="ot">&lt;-</span><span class="fu">dbinom</span>(<span class="at">x=</span><span class="fu">seq</span>(<span class="dv">0</span>,<span class="dv">15</span>), <span class="at">size=</span><span class="dv">15</span>,<span class="at">prob=</span><span class="dv">2</span><span class="sc">/</span><span class="dv">3</span>)</span>
+<span id="cb42-2"><a href="#cb42-2" aria-hidden="true" tabindex="-1"></a></span>
+<span id="cb42-3"><a href="#cb42-3" aria-hidden="true" tabindex="-1"></a><span class="cf">for</span> (i <span class="cf">in</span> <span class="fu">seq</span>(<span class="dv">0</span>,<span class="dv">15</span>)) {</span>
+<span id="cb42-4"><a href="#cb42-4" aria-hidden="true" tabindex="-1"></a>  <span class="fu">cat</span>(<span class="st">"P(X ="</span>, i, <span class="st">") ="</span>, probs[i <span class="sc">+</span> <span class="dv">1</span>], <span class="st">"</span><span class="sc">\n</span><span class="st">"</span>)</span>
+<span id="cb42-5"><a href="#cb42-5" aria-hidden="true" tabindex="-1"></a>}</span></code><button title="Copy to Clipboard" class="code-copy-button"><i class="bi"></i></button></pre></div>
 <div class="cell-output cell-output-stdout">
 <pre><code>P(X = 0 ) = 6.969172e-08 
 P(X = 1 ) = 2.090752e-06 
@@ -328,11 +336,11 @@ P(X = 15 ) = 0.002283658 </code></pre>
 </div>
 <p>Use <code>pbinom()</code> to verify the results in Equation 5.4</p>
 <div class="cell">
-<div class="sourceCode cell-code" id="cb42"><pre class="sourceCode r code-with-copy"><code class="sourceCode r"><span id="cb42-1"><a href="#cb42-1" aria-hidden="true" tabindex="-1"></a>cum_distribution_function<span class="ot">&lt;-</span><span class="fu">pbinom</span>(<span class="at">q=</span><span class="fu">seq</span>(<span class="dv">0</span>,<span class="dv">15</span>), <span class="at">size=</span><span class="dv">15</span>,<span class="at">prob=</span><span class="dv">2</span><span class="sc">/</span><span class="dv">3</span>)</span>
-<span id="cb42-2"><a href="#cb42-2" aria-hidden="true" tabindex="-1"></a></span>
-<span id="cb42-3"><a href="#cb42-3" aria-hidden="true" tabindex="-1"></a><span class="cf">for</span> (i <span class="cf">in</span> <span class="fu">seq</span>(<span class="dv">0</span>,<span class="dv">15</span>)) {</span>
-<span id="cb42-4"><a href="#cb42-4" aria-hidden="true" tabindex="-1"></a>  <span class="fu">cat</span>(<span class="st">"P(X ≤"</span>,i,<span class="st">")="</span>, cum_distribution_function[i<span class="sc">+</span><span class="dv">1</span>],<span class="st">"</span><span class="sc">\n</span><span class="st">"</span>)</span>
-<span id="cb42-5"><a href="#cb42-5" aria-hidden="true" tabindex="-1"></a>}</span></code><button title="Copy to Clipboard" class="code-copy-button"><i class="bi"></i></button></pre></div>
+<div class="sourceCode cell-code" id="cb44"><pre class="sourceCode r code-with-copy"><code class="sourceCode r"><span id="cb44-1"><a href="#cb44-1" aria-hidden="true" tabindex="-1"></a>cum_distribution_function<span class="ot">&lt;-</span><span class="fu">pbinom</span>(<span class="at">q=</span><span class="fu">seq</span>(<span class="dv">0</span>,<span class="dv">15</span>), <span class="at">size=</span><span class="dv">15</span>,<span class="at">prob=</span><span class="dv">2</span><span class="sc">/</span><span class="dv">3</span>)</span>
+<span id="cb44-2"><a href="#cb44-2" aria-hidden="true" tabindex="-1"></a></span>
+<span id="cb44-3"><a href="#cb44-3" aria-hidden="true" tabindex="-1"></a><span class="cf">for</span> (i <span class="cf">in</span> <span class="fu">seq</span>(<span class="dv">0</span>,<span class="dv">15</span>)) {</span>
+<span id="cb44-4"><a href="#cb44-4" aria-hidden="true" tabindex="-1"></a>  <span class="fu">cat</span>(<span class="st">"P(X ≤"</span>,i,<span class="st">")="</span>, cum_distribution_function[i<span class="sc">+</span><span class="dv">1</span>],<span class="st">"</span><span class="sc">\n</span><span class="st">"</span>)</span>
+<span id="cb44-5"><a href="#cb44-5" aria-hidden="true" tabindex="-1"></a>}</span></code><button title="Copy to Clipboard" class="code-copy-button"><i class="bi"></i></button></pre></div>
 <div class="cell-output cell-output-stdout">
 <pre><code>P(X ≤ 0 )= 6.969172e-08 
 P(X ≤ 1 )= 2.160443e-06 
@@ -355,36 +363,14 @@ P(X ≤ 15 )= 1 </code></pre>
 </section>
 <section id="section-6" class="level1">
 <h1>5.4.1</h1>
-<p>Following Steve's code, calculate <code>clike_raw</code> and <code>clike_normalized</code>.</p>
+<p>Following Steve’s code, calculate <code>clike_raw</code> and <code>clike_normalized</code>.</p>
 <div class="cell">
-<div class="sourceCode cell-code" id="cb44"><pre class="sourceCode r code-with-copy"><code class="sourceCode r"><span id="cb44-1"><a href="#cb44-1" aria-hidden="true" tabindex="-1"></a>grid <span class="ot">&lt;-</span> <span class="fu">tibble</span>(<span class="at">prob =</span> <span class="fu">seq</span>(<span class="dv">0</span>, <span class="dv">1</span>, <span class="at">by =</span> <span class="fl">0.001</span>))</span>
-<span id="cb44-2"><a href="#cb44-2" aria-hidden="true" tabindex="-1"></a>grid<span class="sc">$</span>like <span class="ot">&lt;-</span> <span class="fu">dbinom</span>(<span class="dv">21</span>, <span class="dv">47</span>, grid<span class="sc">$</span>prob) <span class="do">## MAKE SURE YOU USE THESE VALUES</span></span>
-<span id="cb44-3"><a href="#cb44-3" aria-hidden="true" tabindex="-1"></a></span>
-<span id="cb44-4"><a href="#cb44-4" aria-hidden="true" tabindex="-1"></a>grid <span class="ot">&lt;-</span> grid <span class="sc">|&gt;</span> </span>
-<span id="cb44-5"><a href="#cb44-5" aria-hidden="true" tabindex="-1"></a>  <span class="fu">mutate</span>(<span class="at">clike_raw =</span> <span class="fu">cumsum</span>(like),</span>
-<span id="cb44-6"><a href="#cb44-6" aria-hidden="true" tabindex="-1"></a>         <span class="at">clike_normalized =</span> clike_raw<span class="sc">/</span><span class="fu">sum</span>(like))</span>
-<span id="cb44-7"><a href="#cb44-7" aria-hidden="true" tabindex="-1"></a></span>
-<span id="cb44-8"><a href="#cb44-8" aria-hidden="true" tabindex="-1"></a><span class="fu">ggplot</span>(grid,</span>
-<span id="cb44-9"><a href="#cb44-9" aria-hidden="true" tabindex="-1"></a>       <span class="fu">aes</span>(<span class="at">x =</span> prob,</span>
-<span id="cb44-10"><a href="#cb44-10" aria-hidden="true" tabindex="-1"></a>           <span class="at">y =</span> like)) <span class="sc">+</span></span>
-<span id="cb44-11"><a href="#cb44-11" aria-hidden="true" tabindex="-1"></a>  <span class="fu">geom_line</span>()</span></code><button title="Copy to Clipboard" class="code-copy-button"><i class="bi"></i></button></pre></div>
-<div class="cell-output-display">
-<p><img src="Exercise_05_files/figure-html/unnamed-chunk-14-1.png" class="img-fluid" width="672"></p>
-</div>
-<div class="sourceCode cell-code" id="cb45"><pre class="sourceCode r code-with-copy"><code class="sourceCode r"><span id="cb45-1"><a href="#cb45-1" aria-hidden="true" tabindex="-1"></a><span class="fu">ggplot</span>(grid,</span>
-<span id="cb45-2"><a href="#cb45-2" aria-hidden="true" tabindex="-1"></a>       <span class="fu">aes</span>(<span class="at">x =</span> prob,</span>
-<span id="cb45-3"><a href="#cb45-3" aria-hidden="true" tabindex="-1"></a>           <span class="at">y =</span> clike_raw)) <span class="sc">+</span></span>
-<span id="cb45-4"><a href="#cb45-4" aria-hidden="true" tabindex="-1"></a>  <span class="fu">geom_line</span>()</span></code><button title="Copy to Clipboard" class="code-copy-button"><i class="bi"></i></button></pre></div>
-<div class="cell-output-display">
-<p><img src="Exercise_05_files/figure-html/unnamed-chunk-14-2.png" class="img-fluid" width="672"></p>
-</div>
-<div class="sourceCode cell-code" id="cb46"><pre class="sourceCode r code-with-copy"><code class="sourceCode r"><span id="cb46-1"><a href="#cb46-1" aria-hidden="true" tabindex="-1"></a><span class="fu">ggplot</span>(grid,</span>
-<span id="cb46-2"><a href="#cb46-2" aria-hidden="true" tabindex="-1"></a>       <span class="fu">aes</span>(<span class="at">x =</span> prob,</span>
-<span id="cb46-3"><a href="#cb46-3" aria-hidden="true" tabindex="-1"></a>           <span class="at">y =</span> clike_normalized)) <span class="sc">+</span></span>
-<span id="cb46-4"><a href="#cb46-4" aria-hidden="true" tabindex="-1"></a>  <span class="fu">geom_line</span>()</span></code><button title="Copy to Clipboard" class="code-copy-button"><i class="bi"></i></button></pre></div>
-<div class="cell-output-display">
-<p><img src="Exercise_05_files/figure-html/unnamed-chunk-14-3.png" class="img-fluid" width="672"></p>
-</div>
+<div class="sourceCode cell-code" id="cb46"><pre class="sourceCode r code-with-copy"><code class="sourceCode r"><span id="cb46-1"><a href="#cb46-1" aria-hidden="true" tabindex="-1"></a>grid <span class="ot">&lt;-</span> <span class="fu">tibble</span>(<span class="at">prob =</span> <span class="fu">seq</span>(<span class="dv">0</span>, <span class="dv">1</span>, <span class="at">by =</span> <span class="fl">0.001</span>))</span>
+<span id="cb46-2"><a href="#cb46-2" aria-hidden="true" tabindex="-1"></a>grid<span class="sc">$</span>like <span class="ot">&lt;-</span> <span class="fu">dbinom</span>(<span class="dv">21</span>, <span class="dv">47</span>, grid<span class="sc">$</span>prob) <span class="do">## MAKE SURE YOU USE THESE VALUES</span></span>
+<span id="cb46-3"><a href="#cb46-3" aria-hidden="true" tabindex="-1"></a></span>
+<span id="cb46-4"><a href="#cb46-4" aria-hidden="true" tabindex="-1"></a>grid <span class="ot">&lt;-</span> grid <span class="sc">|&gt;</span> </span>
+<span id="cb46-5"><a href="#cb46-5" aria-hidden="true" tabindex="-1"></a>  <span class="fu">mutate</span>(<span class="at">clike_raw =</span> <span class="fu">cumsum</span>(like),</span>
+<span id="cb46-6"><a href="#cb46-6" aria-hidden="true" tabindex="-1"></a>         <span class="at">clike_normalized =</span> clike_raw<span class="sc">/</span><span class="fu">sum</span>(like))</span></code><button title="Copy to Clipboard" class="code-copy-button"><i class="bi"></i></button></pre></div>
 </div>
 <p>Looking at this data frame, what probability would you assign to <code>prob</code> having a value equal to or greater than 0.588?</p>
 <div class="cell">
